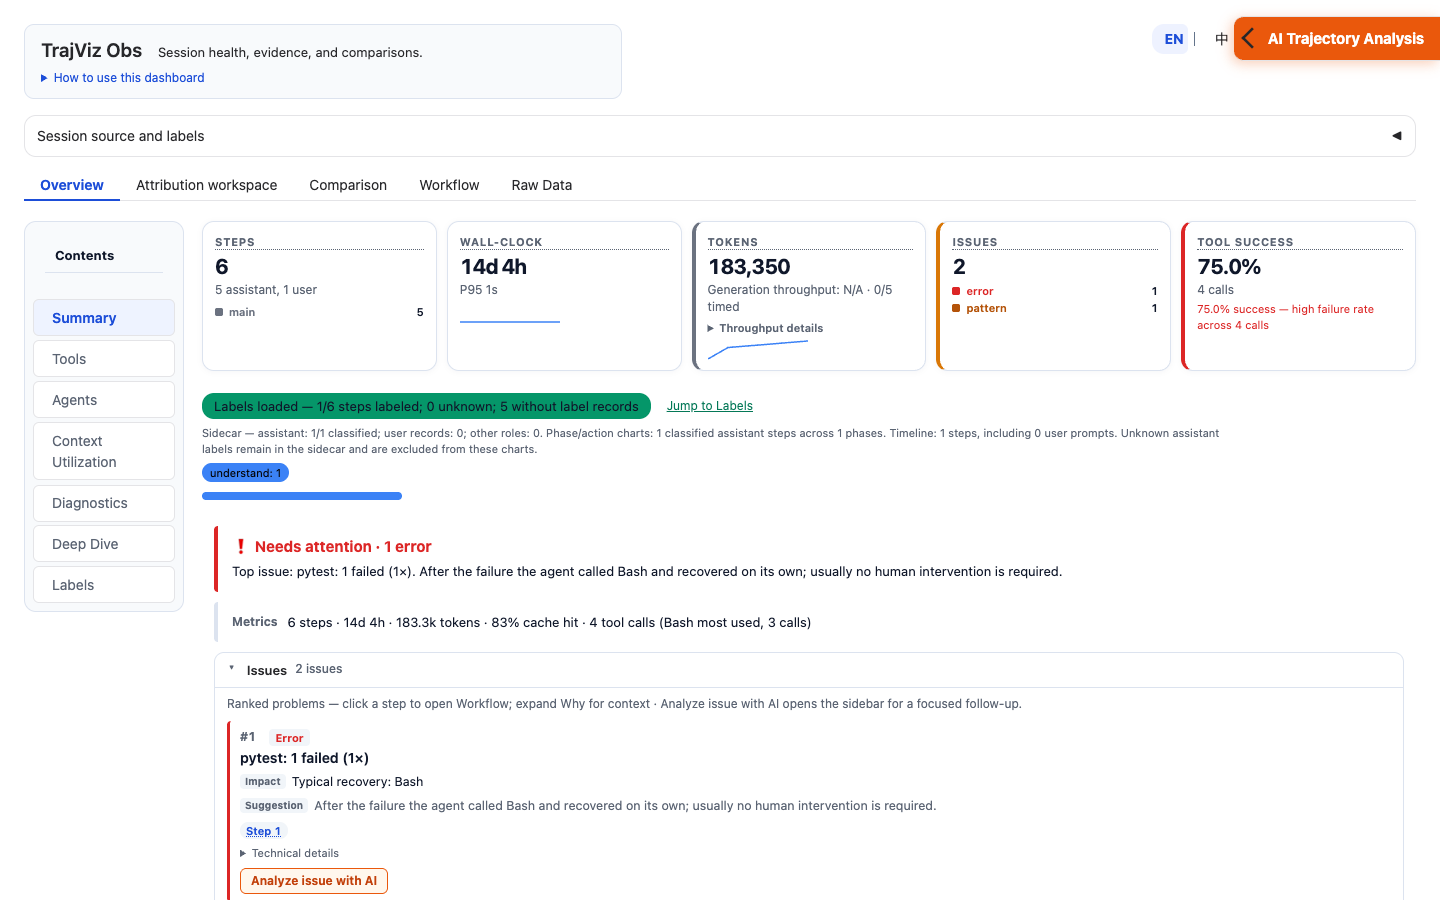
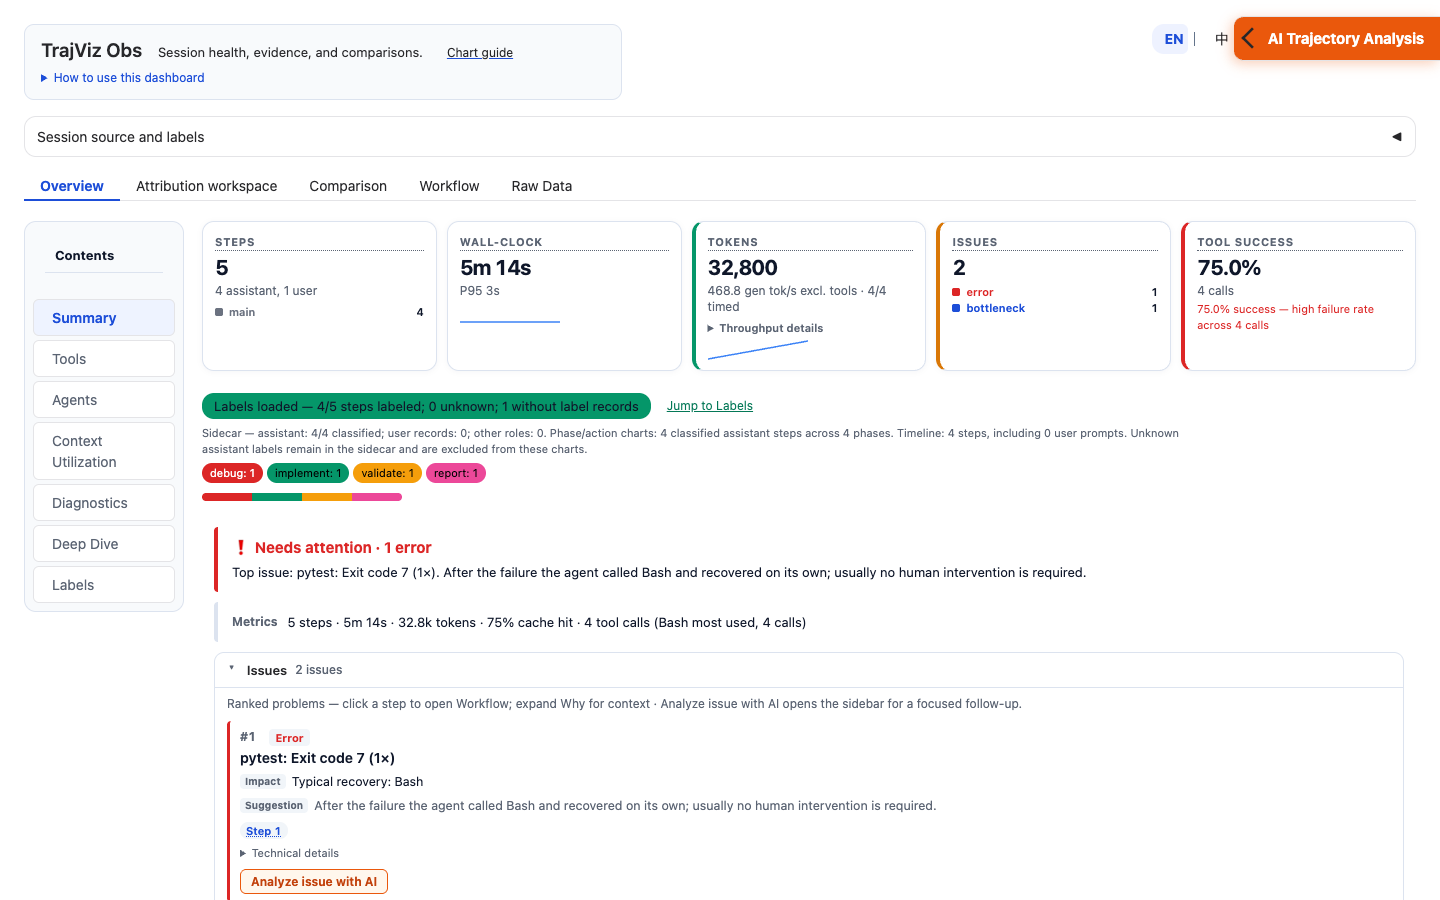
Refresh dashboard guides and light-mode demos

diff --git a/opencode/README.md b/opencode/README.md
@@ -4,7 +4,7 @@ Inspect session health, tools, subagents, context use, and step labels with `/ob
 
 ## Install
 
-Requires **OpenCode 2**, [Bun](https://bun.sh) **1.3.0+**, and either [uv](https://docs.astral.sh/uv/) or **Python 3.11+ with `venv` and `pip`**. Tested on terminal **2.2.5** and Desktop **2.2.6**.
+Requires **OpenCode 2**, [Bun](https://bun.sh) **1.3.0+**, and either [uv](https://docs.astral.sh/uv/) or **Python 3.11+ with `venv` and `pip`**. Tested on terminal **2.2.5** and Desktop **2.2.7** on macOS.
 
 ### 1. Build the adapter and find its path
 
@@ -40,7 +40,7 @@ For a new file, paste the following and replace the example path with your `pwd`
 
 Use **`plugins` (plural)** for OpenCode 2. In an existing file, preserve other settings and add this top-level field, or append the adapter path to its existing array. If TrajViz Obs is already listed, update that entry in place. Save in nano with **Ctrl+O**, **Enter**, then exit with **Ctrl+X**.
 
-Alternatively, enable it for **one project only** by putting the entry in `opencode.json` or `opencode.jsonc` in that project's root directory. See OpenCode's [configuration](https://opencode.ai/v2/docs/config) and [plugin](https://opencode.ai/v2/docs/plugins) guides.
+Alternatively, enable it for **one project only** by putting the entry in `opencode.json` or `opencode.jsonc` in that project's root directory. See OpenCode's [configuration](https://opencode.ai/docs/config) and [plugin](https://opencode.ai/docs/plugins) guides.
 
 ### 3. Restart and verify
 
@@ -55,11 +55,11 @@ Alternatively, enable it for **one project only** by putting the entry in `openc
 /obs dashboard
 ```
 
-`/obs` opens the summary. `/obs dashboard` starts the browser dashboard; click **Open dashboard** in its result to view it. Stop the server with `/obs dashboard stop`.
+`/obs` opens the summary. If Enter selects it from the slash-command picker, press Enter again to submit it. `/obs dashboard` starts the browser dashboard. Click **Open dashboard** in its result, and run `/obs dashboard stop` when done.
 
 For an optional live panel beside the conversation, run `/obs pane`; use **Expand** for a larger view.
 
-If the plugin is missing, check the global configuration and the absolute adapter path from step 1, then restart the app. If its Desktop UI fails to load, use **Reload** on the plugin's settings row. See OpenCode's [Desktop plugin guidance](https://opencode.ai/v2/docs/plugins#desktop).
+If the plugin is missing, check the global configuration and the absolute adapter path from step 1, then restart the app. If its Desktop UI fails to load, use **Reload** on the plugin's settings row. See OpenCode's [Desktop plugin guidance](https://opencode.ai/docs/plugins#desktop).
 
 #### OpenCode terminal
 
@@ -84,9 +84,11 @@ To disable the adapter, remove its entry from the configuration you edited and r
 
 After an assistant response, run `/obs` for a summary, `/obs pane` for the live panel, or `/obs dashboard` for the browser dashboard. Use **Open dashboard** in Desktop or **Open URL** in the terminal; remote servers need port forwarding.
 
+The [browser dashboard guide](https://github.com/rshu/TrajViz-Obs#browser-dashboard) covers per-step charts, Workflow, the execution timeline, and Deep Dive. For a saved session, use the stop command shown in the launch result. It includes the session selector and any capture session ID.
+
 Use `/obs dashboard --html session.html` to save an offline copy. Add `--dark` for dark charts, or `--inline-plotly` to a live dashboard command to make its browser HTML exports work offline.
 
-The panel has Overview, Tools, Issues, Patterns, Agents, Context, and Timeline tabs. See the [demo screenshots](../README.md#demo). `/obs pane close` closes it. `/obs watch off` disables automatic refresh; `/obs statusline on` adds a compact status summary. `/obs cancel` cancels a running command.
+The panel has Overview, Tools, Issues, Patterns, Agents, Context, and Timeline tabs. See the [demo screenshots](https://github.com/rshu/TrajViz-Obs#demo). `/obs pane close` closes it. `/obs watch off` disables automatic refresh; `/obs statusline on` adds a compact status summary. `/obs cancel` cancels a running command.
 
 Overview charts show tokens, context, and step time excluding recorded subagent waits. Tools ranks calls and outcomes; Agents shows activity by work step. Charts follow OpenCode's theme and distinguish missing measurements from zero. Set `NO_COLOR=1` for monochrome terminal charts.
 
@@ -123,7 +125,7 @@ Live captures are limited to 32 MiB and 64 sessions in one family. For larger in
 
 Run `/obs enable_telemetry` to opt in or `/obs disable_telemetry` to turn it off in Desktop or the terminal. Both save the preference on the connected OpenCode server, where it takes effect immediately and persists across restarts. Disabling pauses queued uploads. After enabling, reopen any existing dashboards to include browser interactions.
 
-Run `/obs telemetry` to check delivery or `/obs telemetry_destination` to see the collector. `/obs telemetry_destination https://telemetry.example.com` changes it immediately on the connected server and adds `/v1/events` automatically. `default` restores the server’s launch setting or the loopback collector. For authenticated delivery, set `TRAJVIZ_OBS_TELEMETRY_TOKEN` and the full `/v1/events` URL in `TRAJVIZ_OBS_TELEMETRY_URL` in the server’s launch environment. The server uses that token only for this exact endpoint, including when a client specifies `--use-launch-token`. [Telemetry setup](../README.md#usage-telemetry)
+Run `/obs telemetry` to check delivery or `/obs telemetry_destination` to see the collector. `/obs telemetry_destination https://telemetry.example.com` changes it immediately on the connected server and adds `/v1/events` automatically. `default` restores the server’s launch setting or the loopback collector. For authenticated delivery, set `TRAJVIZ_OBS_TELEMETRY_TOKEN` and the full `/v1/events` URL in `TRAJVIZ_OBS_TELEMETRY_URL` in the server’s launch environment. The server uses that token only for this exact endpoint, including when a client specifies `--use-launch-token`. [Telemetry setup](https://github.com/rshu/TrajViz-Obs#usage-telemetry)
 
 ## Development
 

diff --git a/README.md b/README.md
@@ -52,11 +52,9 @@ After the session's first assistant response:
 | Label steps by phase and action | `/obs label --max-steps 20` |
 | List all commands and options | `/obs help` |
 
-In the dashboard, start with **Overview → Summary** for health, issues, and issue JSON export. Use **Chart guide** to learn how to read the charts. Click a token bar for its step breakdown or a duration bar to open that step in **Workflow**. The execution timeline can compress long idle gaps or show their full duration with **True wall-clock**. In **Deep Dive**, click a step number in any hotspot or Per-Message Diagnostics table to open it in **Workflow**. The selected session and its cached labels load automatically. Close the server with `/obs dashboard stop`.
-
 Find saved sessions with `/obs sessions 20`, then add `--session <id|prefix|path>` to a session command. Run `/obs` without a selector to return to the current session.
 
-Both plugins use TrajViz **0.5.1** and expose all **36 views**. `/obs view data_quality` explains missing or partial evidence. Measured zeros appear as zero, and unavailable measurements appear as unknown.
+Both plugins use TrajViz **0.5.1** and expose all **36 views**. `/obs view data_quality` explains missing or partial evidence. The dashboard distinguishes recorded zeros from missing or partial data.
 
 Watch refreshes an open pane after turns. `/obs statusline on` pins a summary under the prompt. Use `/obs watch off` and `/obs statusline off` to stop automatic refreshes.
 
@@ -71,9 +69,17 @@ Saved OTLP captures can contain several sessions. List them with `/obs sessions 
 
 </details>
 
+### Browser dashboard
+
+- **Overview → Summary** shows health, issues, and issue JSON export. Open **Chart guide** for examples. Click a token bar for its breakdown or a duration bar to jump to the step. Use **True wall-clock** below the execution timeline to include idle time.
+- **Overview → Deep Dive** shows timing, token, efficiency, tool, and model metrics. Click a step number in the latency, token-load, lowest cache-read, context-growth, or Per-Message Diagnostics tables to open it in **Workflow**.
+- **Workflow** offers **Cards** for scanning and **Expanded** for full step content.
+
+The selected session and cached labels load automatically. Run `/obs dashboard stop` when done. In OpenCode, use the stop command shown when the dashboard starts to target a saved session.
+
 ## Demo
 
-Demos use real, controlled coding sessions. Terminal images are rendered from recorded output.
+Terminal images are rendered from recorded output. The dashboard Summary uses a demo fixture with a ranked issue. The other images use controlled coding sessions.
 
 **Claude Code: overview and live pane**
 
@@ -91,9 +97,13 @@ Demos use real, controlled coding sessions. Terminal images are rendered from re
 
 ![OpenCode Desktop pane in light mode with session metrics, health, token usage, and step timing](assets/demo-opencode-desktop-light.png)
 
-**Browser dashboard: session summary (TrajViz 0.5.1)**
+**Browser dashboard: Summary**
 
-![TrajViz 0.5.1 dashboard in light mode with session health, label coverage, and Analyze issue with AI](assets/demo-dashboard-light.png)
+![Summary in light mode with the Chart guide link, session health, and an Analyze issue with AI button](assets/demo-dashboard-light.png)
+
+**Browser dashboard: Deep Dive**
+
+![Deep Dive in light mode with metric cards and step links in the hotspot tables](assets/demo-dashboard-deep-dive-light.png)
 
 ## Configure
 

diff --git a/CHANGELOG.md b/CHANGELOG.md
@@ -1,5 +1,13 @@
 # Changelog
 
+## Unreleased
+
+- Add the Chart guide and per-step token breakdown to Summary. Open Workflow steps directly from duration charts and Deep Dive tables.
+- Expand Deep Dive with timing, tokens, efficiency, tools, models, and evidence-aware hotspot and per-message tables.
+- Switch between compressed idle gaps and true wall-clock time on the execution timeline. Exclude Claude Code resume display records from session timing.
+- Set dashboard ports and telemetry destinations from `/obs` while a session is running.
+- Add opt-in usage telemetry, with local consent controls and delivery status for both plugins.
+
 ## OpenCode 0.5.4 / Claude Code 0.3.8 — 2026-11-11
 
 - Keep browser Issues, AI analysis, and issue exports aligned with the recorded findings.
